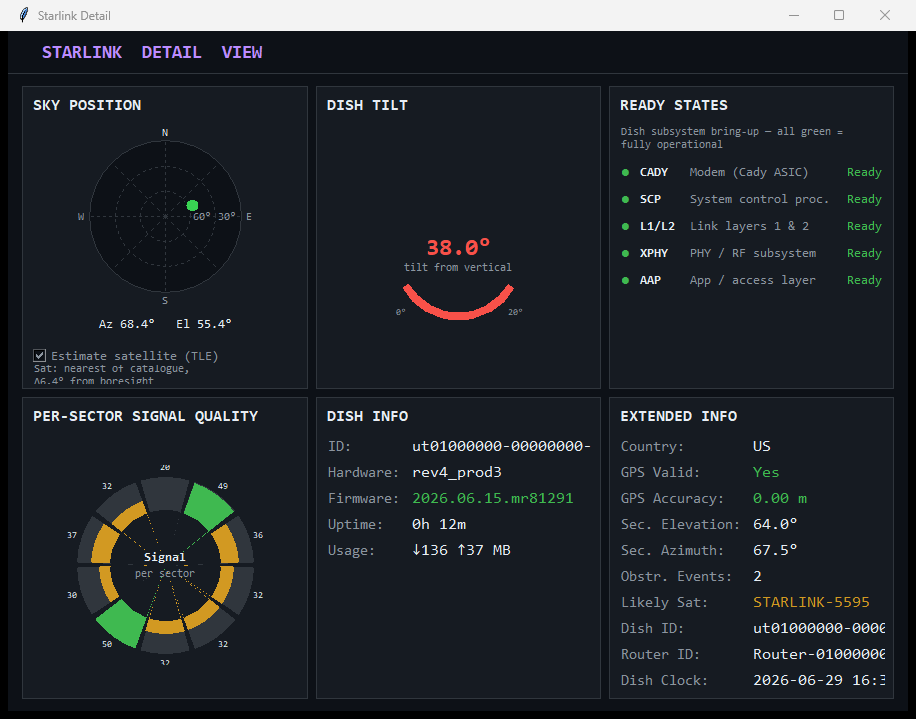
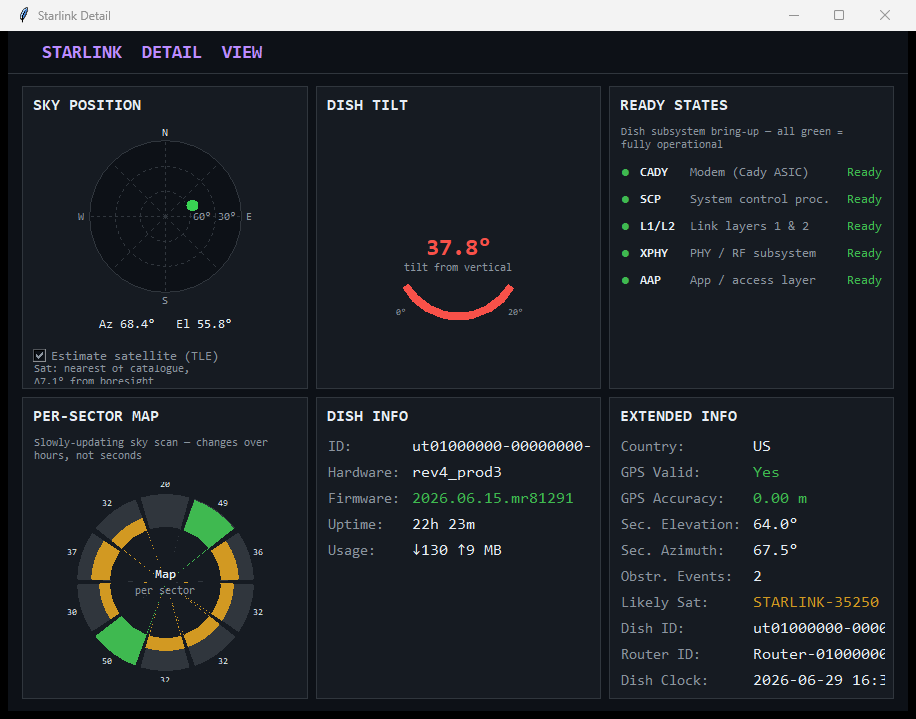
Relabel per-sector panel as a slowly-updating map; log the 10 sector values
- Rename the panel to 'Per-Sector Map' with a caption noting it updates over
  hours, not seconds (field 1028 is a slow sky-scan map, confirmed static across
  short polling); chart center label changed 'Signal' -> 'Map'.
- Log the 10 per-sector values (sector1..sector10) every poll so long-term
  behaviour of the map can be studied.
- Refresh the detail screenshot and update the README to match.

diff --git a/starlink_dashboard.py b/starlink_dashboard.py
@@ -773,7 +773,7 @@ class SectorChart(tk.Canvas):
         if not values:
             self.create_text(cx, cy, text="No Data", fill=DIM, font=("Consolas", 9))
         else:
-            self.create_text(cx, cy - 8, text="Signal",
+            self.create_text(cx, cy - 8, text="Map",
                              fill=TEXT, font=("Consolas", 9, "bold"))
             self.create_text(cx, cy + 8, text="per sector",
                              fill=DIM, font=("Consolas", 8))
@@ -864,6 +864,9 @@ LOG_FIELDS = [
     "firmware", "country",
     "cum_dl_gb", "cum_ul_gb",
     "likely_sat", "likely_sat_sep_deg",
+    # Per-sector map values (field 1028) — logged to study long-term behaviour
+    "sector1", "sector2", "sector3", "sector4", "sector5",
+    "sector6", "sector7", "sector8", "sector9", "sector10",
 ]
 
 
@@ -1666,9 +1669,14 @@ class Dashboard:
         self.ready_panel = ReadyStatesPanel(main)
         self.ready_panel.frame.grid(row=0, column=2, sticky="nsew", padx=4, pady=4)
 
-        # Sector signal ring chart
-        sector_frame = make_card(main, "Per-Sector Signal Quality")
+        # Per-sector map (field 1028 updates slowly — like the sky/obstruction map,
+        # it shifts over ~hours as the dish re-scans, not poll-to-poll)
+        sector_frame = make_card(main, "Per-Sector Map")
         sector_frame.grid(row=1, column=0, sticky="nsew", padx=4, pady=4)
+        tk.Label(sector_frame,
+                 text="Slowly-updating sky scan — changes over hours, not seconds",
+                 bg=CARD, fg=DIM, font=F_TINY, anchor="w",
+                 wraplength=260, justify="left").pack(fill="x", padx=8, pady=(0, 2))
         self.sector_chart = SectorChart(sector_frame)
         self.sector_chart.pack(expand=True)
 
@@ -1961,6 +1969,8 @@ class Dashboard:
             "cum_ul_gb":           f"{self._cum_ul_gb:.6f}",
             "likely_sat":          self._last_sat_name,
             "likely_sat_sep_deg":  self._last_sat_sep,
+            **{f"sector{i}": getattr(s.sector_signal, f"s{i}", "")
+               for i in range(1, 11)},
         })
 
     def _draw_history(self):

diff --git a/README.md b/README.md
@@ -33,7 +33,8 @@ optional "likely satellite" estimate:
 **Detail window**
 - Sky-position compass — boresight azimuth/elevation on a hemisphere
 - Dish-tilt gauge — tilt from vertical, derived from the onboard orientation quaternion
-- Per-sector signal quality — 10-segment radial ring chart
+- Per-sector map — 10-segment radial ring chart of the dish's per-sector sky
+  scan (field 1028); a slowly-updating map that shifts over hours, not seconds
 - Ready-states indicator — each dish subsystem bring-up flag (CADY, SCP, L1/L2,
   XPHY, AAP) shown with a status dot, a plain-language description, and a
   Ready/Down label (all green = fully operational)
@@ -51,7 +52,8 @@ optional "likely satellite" estimate:
 **Data logging**
 - Every poll is appended to a CSV in `data/`, one file per UTC day
   (`data/starlink_YYYY-MM-DD.csv`), covering throughput, latency, loss, SNR,
-  pointing, tilt, obstruction events, GPS, the likely-satellite match, and more.
+  pointing, tilt, obstruction events, GPS, the likely-satellite match, the 10
+  per-sector map values (for long-term study), and more.
 
 ---
 